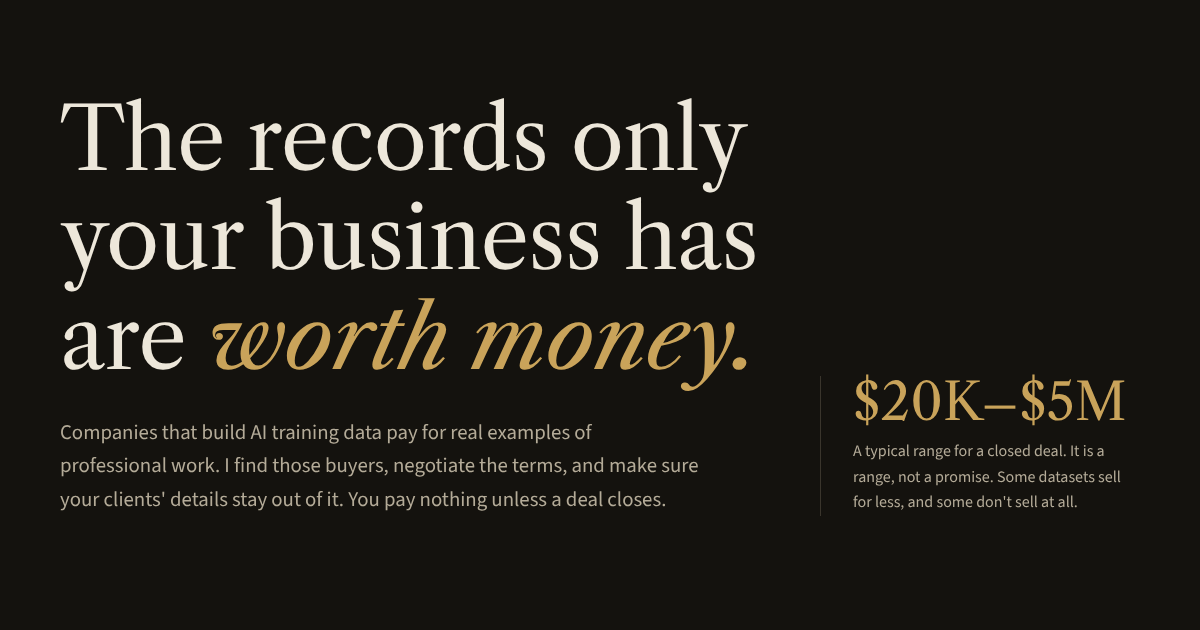
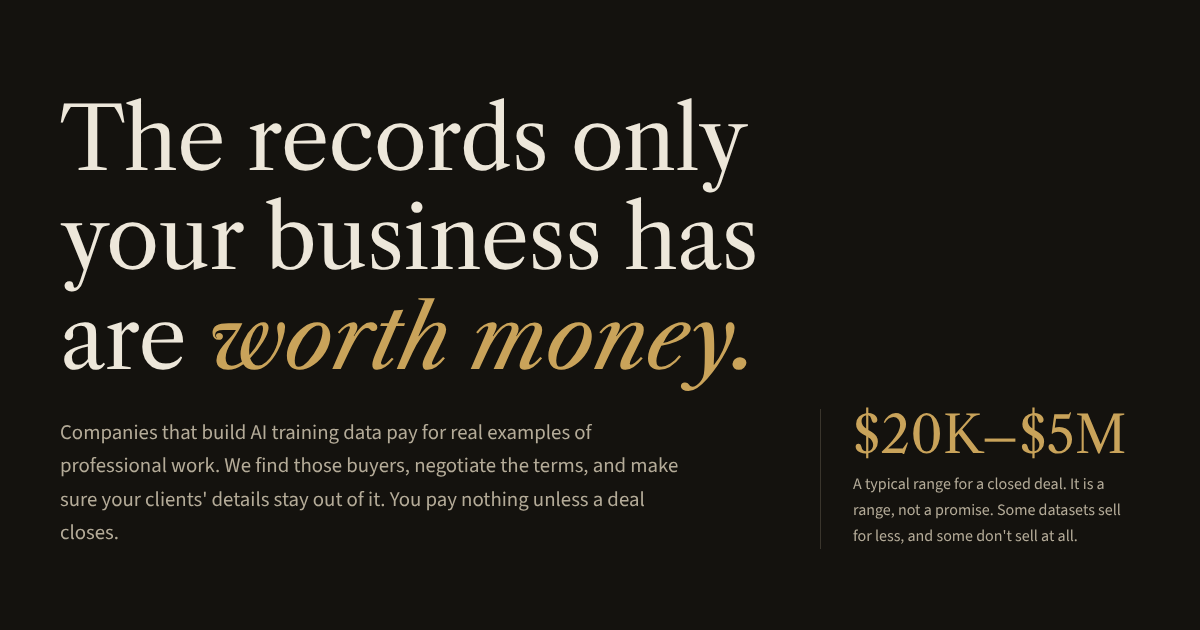
Reword site in company voice and remove problem section
Claude-Session: https://claude.ai/code/session_01JNDNoBsL5XcgGG9AVV7HjT

diff --git a/index.html b/index.html
@@ -158,20 +158,6 @@
       .anchor { border-top: 0; border-left: 1px solid var(--ink-rule); padding: 0 0 0 2rem; }
     }
 
-    /* ===== Problem ===== */
-    .statements { list-style: none; margin: 2.5rem 0 0; padding: 0; }
-    .statements li {
-      font-family: var(--serif); font-size: clamp(1.55rem, 3.8vw, 2.6rem); line-height: 1.25;
-      padding: clamp(1.5rem, 3.5vw, 2.25rem) 0; border-top: 1px solid var(--line); max-width: 30ch;
-    }
-    .statements li:last-child { border-bottom: 1px solid var(--line); }
-    .statements .gold { color: var(--gold-deep); }
-    .why {
-      margin-top: clamp(3rem, 6vw, 4.5rem); display: grid; gap: 1rem; max-width: 46rem;
-    }
-    .why h3 { font-size: 1.4rem; }
-    .why p { color: var(--muted); }
-
     /* ===== Data cards ===== */
     .cards { margin-top: 3rem; display: grid; gap: 1.25rem; grid-template-columns: repeat(auto-fit, minmax(min(100%, 300px), 1fr)); }
     .card { background: var(--card); border: 1px solid var(--line); padding: 1.75rem 1.6rem 1.6rem; display: flex; flex-direction: column; }
@@ -359,7 +345,7 @@
         Paystreak
       </a>
       <nav class="nav" aria-label="Main">
-        <a href="#data">What I look for</a>
+        <a href="#data">What we look for</a>
         <a href="#how">How it works</a>
         <a href="#estimate">Estimate</a>
         <a href="#faq">Questions</a>
@@ -377,7 +363,7 @@
         <div class="hero-grid">
           <div>
             <h1 id="hero-title">The records only your business has are <em>worth money.</em></h1>
-            <p class="lede">Companies that build AI training data pay for real examples of professional work. I find those buyers, negotiate the terms, and make sure your clients' details stay out of it. You pay nothing unless a deal closes.</p>
+            <p class="lede">Companies that build AI training data pay for real examples of professional work. We find those buyers, negotiate the terms, and make sure your clients' details stay out of it. You pay nothing unless a deal closes.</p>
             <div class="hero-actions">
               <a class="btn btn-gold" href="#estimate">See what yours could be worth</a>
               <a class="text-link" href="#contact">Or book a 15-minute call</a>
@@ -389,32 +375,14 @@
             <p class="anchor-label">A typical range for a closed deal. It is a range, not a promise. Some datasets sell for less, and some don't sell at all.</p>
           </div>
         </div>
-        <p class="handshake"><strong>One broker. One phone number.</strong> Paystreak is not a platform. You deal with me, <span class="ph">[YOUR NAME]</span>, from the first call to the final payment.</p>
-      </div>
-    </section>
-
-    <!-- ========== 2. PROBLEM ========== -->
-    <section class="section" aria-labelledby="problem-title">
-      <div class="wrap">
-        <p class="eyebrow" id="problem-title">Why anyone would pay for this</p>
-        <ol class="statements" role="list">
-          <li class="reveal">AI companies have already read most of the public internet.</li>
-          <li class="reveal">What they still lack is <span class="gold">real work</span>: the quote, the revision, the reply that solved the problem.</li>
-          <li class="reveal">That record sits in your inbox, your shared drive, and your job files.</li>
-          <li class="reveal">Most owners don't know it has a price. <span class="gold">Some of it does.</span></li>
-        </ol>
-        <div class="why reveal">
-          <h3>In plain terms</h3>
-          <p>AI systems learn by example. To learn how a contractor scopes a job, or how a firm answers a client, they need examples of the real thing. Textbook versions and made-up samples don't teach the same lessons.</p>
-          <p>Data-prep companies gather those examples, clean them, and sell training sets to AI developers. Years of ordinary business records, with the personal details removed, are exactly the raw material they can't find online.</p>
-        </div>
+        <p class="handshake"><strong>A named contact, not a platform.</strong> One Paystreak advisor handles your deal from the first call to the final payment, and you can always reach them by phone.</p>
       </div>
     </section>
 
     <!-- ========== 3. DATA WE'RE LOOKING FOR ========== -->
     <section class="section tint" id="data" aria-labelledby="data-title">
       <div class="wrap">
-        <p class="eyebrow">What I'm looking for</p>
+        <p class="eyebrow">What we look for</p>
         <h2 class="h2" id="data-title">Ordinary records. Real work.</h2>
         <p class="lede">These are the kinds of records buyers typically ask about. In every case, names and personal details are removed before anyone outside your business sees a thing.</p>
 
@@ -446,8 +414,8 @@
           </article>
           <article class="card card-open reveal">
             <h3>Something else?</h3>
-            <p>If you keep a record that few other businesses have, it's worth a conversation. Tell me what it is and I'll tell you honestly whether anyone buys it.</p>
-            <a class="text-link" href="#contact">Tell me what you have</a>
+            <p>If you keep a record that few other businesses have, it's worth a conversation. Tell us what it is and we'll tell you honestly whether anyone buys it.</p>
+            <a class="text-link" href="#contact">Tell us what you have</a>
           </article>
         </div>
       </div>
@@ -461,7 +429,7 @@
           <h2 class="h2" id="who-title">Owners with years of work on file.</h2>
           <p class="lede" style="margin-bottom:1.5rem">For service businesses that want extra capital from records they already keep.</p>
           <p class="strong">You don't need to be technical. You don't need to change how you work.</p>
-          <p>You need a few years of real records and the right to share them. I'll help you work out which parts you can share and which you can't.</p>
+          <p>You need a few years of real records and the right to share them. We'll help you work out which parts you can share and which you can't.</p>
         </div>
         <div class="reveal">
           <p class="examples-note">Examples, not past clients</p>
@@ -491,17 +459,17 @@
     <section class="section dark" id="how" aria-labelledby="how-title">
       <div class="wrap">
         <p class="eyebrow">How it works</p>
-        <h2 class="h2" id="how-title">Three steps. One person handling them.</h2>
+        <h2 class="h2" id="how-title">Three steps. We handle the work.</h2>
         <ol class="steps" role="list">
           <li class="step reveal">
             <p class="step-num" aria-hidden="true">01</p>
-            <h3>Tell me what you have.</h3>
+            <h3>Tell us what you have.</h3>
             <p>A short call and a free assessment of what your data could be worth. No files change hands at this stage.</p>
           </li>
           <li class="step reveal">
             <p class="step-num" aria-hidden="true">02</p>
-            <h3>I bring the buyers.</h3>
-            <p>I approach vetted data-prep companies and negotiate the terms on your behalf. Buyers see only redacted previews until a deal is signed.</p>
+            <h3>We bring the buyers.</h3>
+            <p>We approach vetted data-prep companies and negotiate the terms on your behalf. Buyers see only redacted previews until a deal is signed.</p>
           </li>
           <li class="step reveal">
             <p class="step-num" aria-hidden="true">03</p>
@@ -510,8 +478,8 @@
           </li>
         </ol>
         <div class="custody reveal">
-          <p><strong>I never hold your data.</strong> It moves directly from you to the buyer, and only after you've signed.</p>
-          <p>My fee is disclosed in writing before you agree to anything: <span class="ph">[CONFIRM: fee, e.g. X% of deal value, and who pays it]</span>.</p>
+          <p><strong>We never hold your data.</strong> It moves directly from you to the buyer, and only after you've signed.</p>
+          <p>Our fee is disclosed in writing before you agree to anything: <span class="ph">[CONFIRM: fee, e.g. X% of deal value, and who pays it]</span>.</p>
         </div>
       </div>
     </section>
@@ -602,14 +570,14 @@
           <div class="result" id="quiz-result" hidden>
             <h3 id="result-heading" tabindex="-1">Your rough estimate</h3>
             <p class="result-range" id="result-range"></p>
-            <p class="result-low" id="result-low" hidden>Based on your answers, your data may fall below the size of a typical deal. That isn't a final answer. Some datasets are worth more than a quiz can capture, so get in touch anyway and I'll tell you honestly.</p>
+            <p class="result-low" id="result-low" hidden>Based on your answers, your data may fall below the size of a typical deal. That isn't a final answer. Some datasets are worth more than a quiz can capture, so get in touch anyway and we'll give you an honest answer.</p>
             <p class="disclaimer">This is a rough estimate. Real deals depend on buyer demand, data quality, and what can be shared.</p>
 
             <dl class="answers" id="result-answers"></dl>
 
             <div class="result-cta">
               <h4>Want a real number?</h4>
-              <p>Leave your email and I'll follow up personally with a proper assessment. No obligation, and I won't add you to a mailing list.</p>
+              <p>Leave your email and an advisor will follow up with a proper assessment. No obligation, and we won't add you to a mailing list.</p>
 
               <!-- Netlify form: "estimate". The hidden fields carry the quiz answers so you see them with the email.
                    They must exist here in the static HTML so Netlify registers them at deploy time. -->
@@ -630,8 +598,8 @@
                 <p class="form-status" role="status" aria-live="polite" style="grid-column:1/-1"></p>
               </form>
               <div class="success" data-success hidden tabindex="-1">
-                <p>Thank you. I have your answers.</p>
-                <p>I'll be in touch personally within <span class="ph">[CONFIRM: reply time, e.g. one business day]</span>.</p>
+                <p>Thank you. We have your answers.</p>
+                <p>An advisor will be in touch within <span class="ph">[CONFIRM: reply time, e.g. one business day]</span>.</p>
               </div>
             </div>
 
@@ -666,17 +634,17 @@
           </li>
           <li class="reveal">
             <svg viewBox="0 0 24 24" fill="none" stroke="currentColor" stroke-width="1.6" stroke-linecap="round" aria-hidden="true"><path d="M4 12h13M13 7l5 5-5 5"/></svg>
-            <div><h3>I never take custody.</h3><p>Your data never touches my servers. It goes directly from you to the buyer.</p></div>
+            <div><h3>We never take custody.</h3><p>Your data never touches our servers. It goes directly from you to the buyer.</p></div>
           </li>
           <li class="reveal">
             <svg viewBox="0 0 24 24" fill="none" stroke="currentColor" stroke-width="1.6" stroke-linecap="round" aria-hidden="true"><circle cx="12" cy="12" r="8.5"/><path d="M6 18L18 6"/></svg>
-            <div><h3>No upfront cost.</h3><p>You pay nothing for the assessment or the search for buyers. My fee is due only if a deal closes.</p></div>
+            <div><h3>No upfront cost.</h3><p>You pay nothing for the assessment or the search for buyers. Our fee is due only if a deal closes.</p></div>
           </li>
           <li class="wide reveal">
             <svg viewBox="0 0 24 24" fill="none" stroke="currentColor" stroke-width="1.6" stroke-linecap="round" aria-hidden="true"><circle cx="12" cy="12" r="8.5"/><path d="M12 7.5v5.5M12 16.5v.01"/></svg>
             <div>
               <h3>Some data isn't a fit.</h3>
-              <p>Records covered by professional confidentiality or health privacy rules, such as privileged legal communications or patient records, need client consent and legal review. Often they can't be sold at all. If something can't or shouldn't be sold, I'll tell you plainly.</p>
+              <p>Records covered by professional confidentiality or health privacy rules, such as privileged legal communications or patient records, need client consent and legal review. Often they can't be sold at all. If something can't or shouldn't be sold, we'll tell you plainly.</p>
             </div>
           </li>
         </ul>
@@ -684,12 +652,12 @@
         <div class="person reveal">
           <div>
             <p class="eyebrow">Who you'll deal with</p>
-            <h3>Paystreak is one person. That's the point.</h3>
-            <p style="margin-top:1rem">There's no platform to upload to and no account manager who changes every quarter. You get my direct line, you hear from me at every step, and I'm accountable for every deal I bring you.</p>
-            <p style="margin-top:1rem"><span class="ph">[CONFIRM: one or two lines of your own background, e.g. prior work or industry experience]</span></p>
+            <h3>One advisor, start to finish.</h3>
+            <p style="margin-top:1rem">There's no platform to upload to and no call center. Every client works with a named Paystreak advisor who handles the assessment, the buyers, and the terms, and who answers the phone.</p>
+            <p style="margin-top:1rem"><span class="ph">[CONFIRM: one or two lines about the company, e.g. where you are based and the industries you serve]</span></p>
           </div>
           <dl>
-            <dt>Name</dt><dd><span class="ph">[YOUR NAME]</span></dd>
+            <dt>Your advisor</dt><dd><span class="ph">[YOUR NAME]</span></dd>
             <dt>Direct line</dt><dd><span class="ph">[PHONE NUMBER]</span></dd>
             <dt>Email</dt><dd><span class="ph">[EMAIL ADDRESS]</span></dd>
           </dl>
@@ -707,29 +675,29 @@
           <details>
             <summary>What's the catch?</summary>
             <div class="answer">
-              <p>There's no upfront cost. I earn a fee only when a deal closes, and it's disclosed in writing before you sign anything.</p>
-              <p>The honest catches: not every dataset finds a buyer, preparing data takes some of your time, and some records can't be sold at all. I'll tell you which of those applies to you early, before you've spent much time on it.</p>
+              <p>There's no upfront cost. We earn a fee only when a deal closes, and it's disclosed in writing before you sign anything.</p>
+              <p>The honest catches: not every dataset finds a buyer, preparing data takes some of your time, and some records can't be sold at all. We'll tell you which of those applies to you early, before you've spent much time on it.</p>
             </div>
           </details>
           <details>
             <summary>How much of my time does this take?</summary>
             <div class="answer">
               <p>The first conversation is 15 minutes. If there's a fit, expect roughly <span class="ph">[CONFIRM: typical total hours of the owner's time]</span> spread over the deal, mostly to answer questions and approve redacted samples.</p>
-              <p>I do the buyer search, the back-and-forth, and the paperwork.</p>
+              <p>We do the buyer search, the back-and-forth, and the paperwork.</p>
             </div>
           </details>
           <details>
             <summary>What about my clients' confidentiality?</summary>
             <div class="answer">
               <p>Personal information is redacted before any buyer sees anything, and you approve every sample before it goes out. Privileged legal communications, patient records, and similar material need client consent and legal review, and are often off the table entirely.</p>
-              <p>I recommend having your own lawyer review any contract before you sign it.</p>
+              <p>We recommend having your own lawyer review any contract before you sign it.</p>
             </div>
           </details>
           <details>
             <summary>Who are the buyers, and what do they do with the data?</summary>
             <div class="answer">
               <p>Data-prep companies. They clean, label, and package data into training sets for companies that build AI systems. Your records help those systems learn how real professional work is done.</p>
-              <p>Each buyer is vetted before I introduce them: <span class="ph">[CONFIRM: your vetting criteria]</span>. Permitted uses are written into the license, and you see them before you sign.</p>
+              <p>Each buyer is vetted before we introduce them: <span class="ph">[CONFIRM: your vetting criteria]</span>. Permitted uses are written into the license, and you see them before you sign.</p>
             </div>
           </details>
           <details>
@@ -755,7 +723,7 @@
           <p class="eyebrow">Next step</p>
           <h2 class="h2" id="contact-title">Book a 15-minute intro call.</h2>
           <p class="lede" style="margin-bottom:1.5rem">No pitch deck and no obligation.</p>
-          <p>Tell me a little about your business and the records you keep. I'll call you back personally within <span class="ph">[CONFIRM: reply time]</span>, tell you whether I think there's a buyer, and explain exactly how it would work.</p>
+          <p>Tell us a little about your business and the records you keep. An advisor will call you back within <span class="ph">[CONFIRM: reply time]</span>, tell you whether we think there's a buyer, and explain exactly how it would work.</p>
           <p class="phone-line">Prefer to call now?<strong><span class="ph">[PHONE NUMBER]</span></strong></p>
         </div>
 
@@ -786,8 +754,8 @@
             </div>
           </form>
           <div class="success" data-success hidden tabindex="-1">
-            <p>Thank you. Your message reached me.</p>
-            <p>I'll call or email you within <span class="ph">[CONFIRM: reply time]</span>. Nothing else happens until we've spoken.</p>
+            <p>Thank you. We have your message.</p>
+            <p>An advisor will call or email you within <span class="ph">[CONFIRM: reply time]</span>. Nothing else happens until we've spoken.</p>
           </div>
         </div>
       </div>
@@ -1073,7 +1041,7 @@
         }).catch(function (err) {
           console.error('[Paystreak]', err);
           status.classList.add('error');
-          status.textContent = 'Sorry, that didn’t send. Please try again, or call or email me directly.';
+          status.textContent = 'Sorry, that didn’t send. Please try again, or call or email us directly.';
         }).finally(function () {
           button.disabled = false;
           button.textContent = label;

diff --git a/thanks.html b/thanks.html
@@ -18,8 +18,8 @@
 </head>
 <body>
   <main>
-    <h1>Thank you. Your message reached me.</h1>
-    <p>I'll be in touch personally. Nothing else happens until we've spoken.</p>
+    <h1>Thank you. We have your message.</h1>
+    <p>An advisor will be in touch shortly. Nothing else happens until we've spoken.</p>
     <a href="/">Back to Paystreak</a>
   </main>
 </body>
